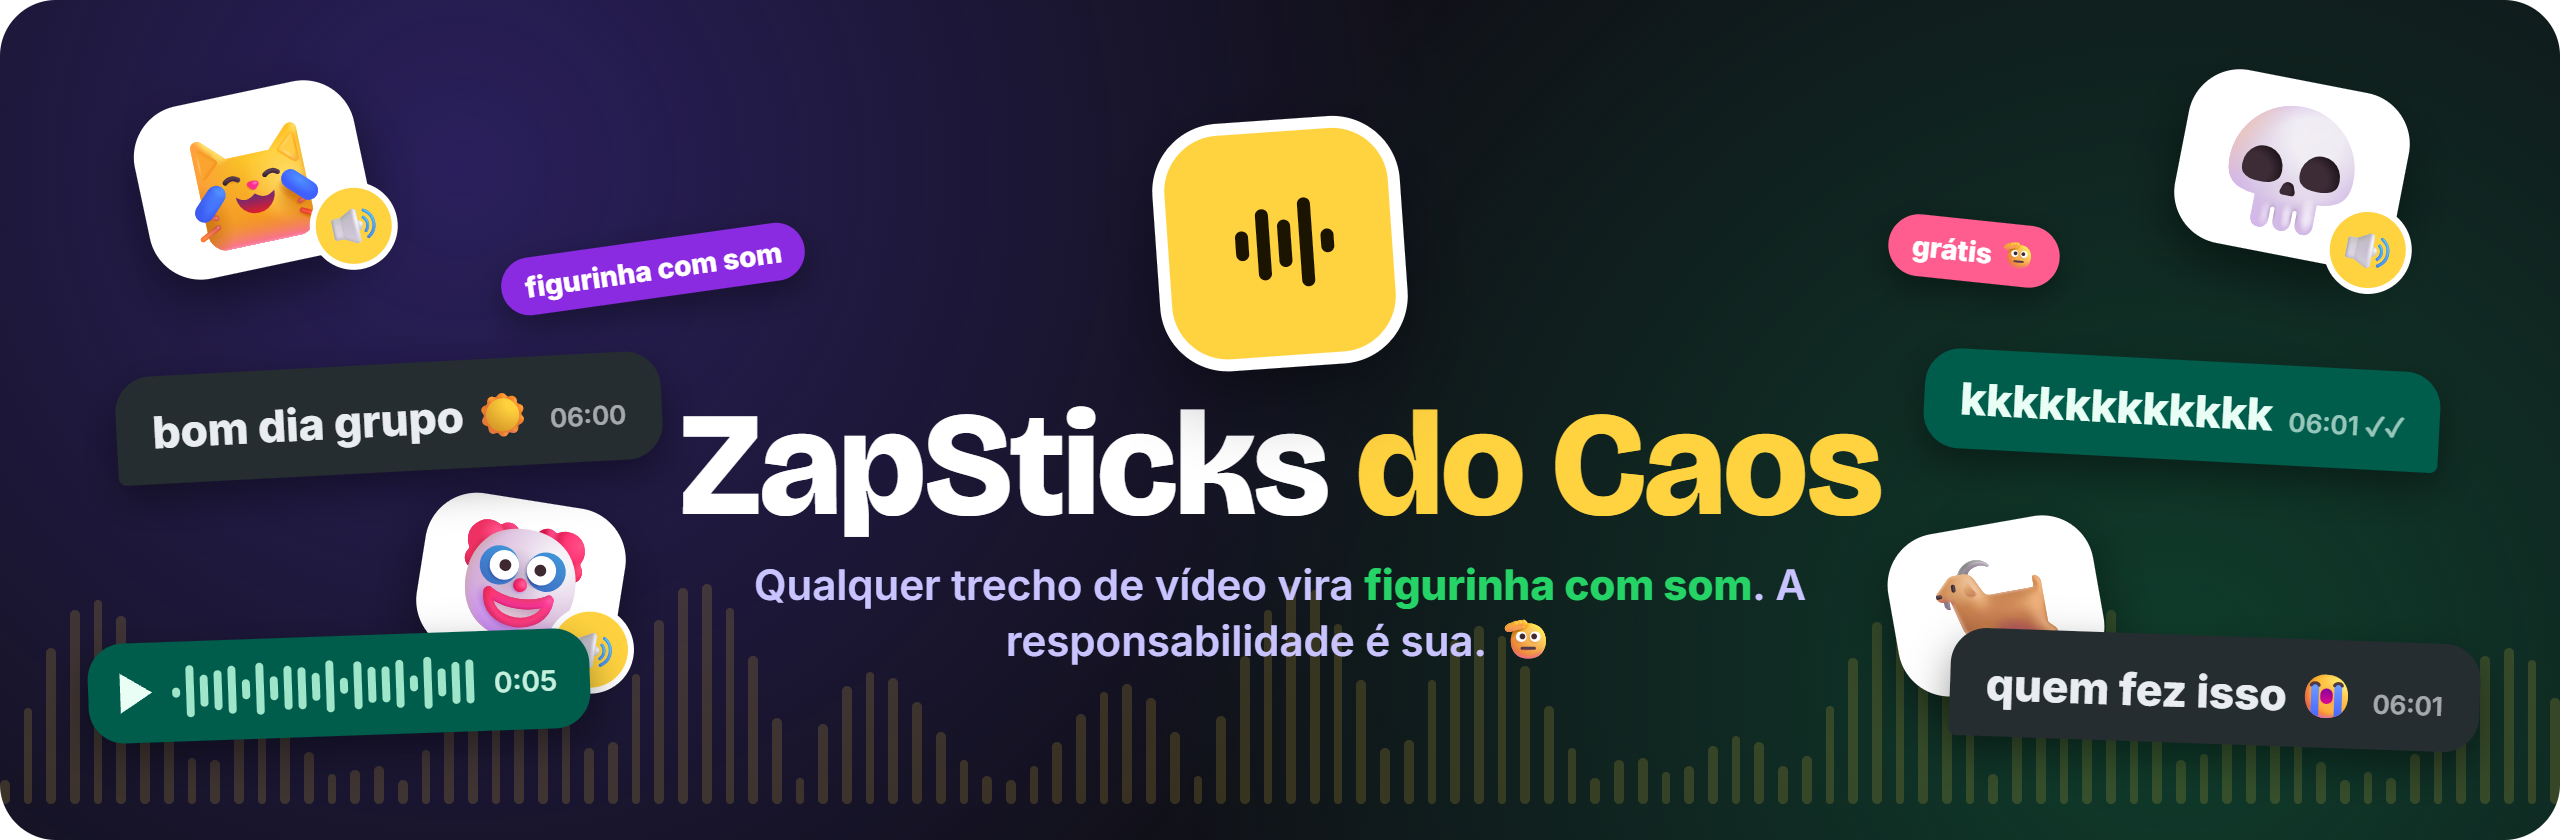
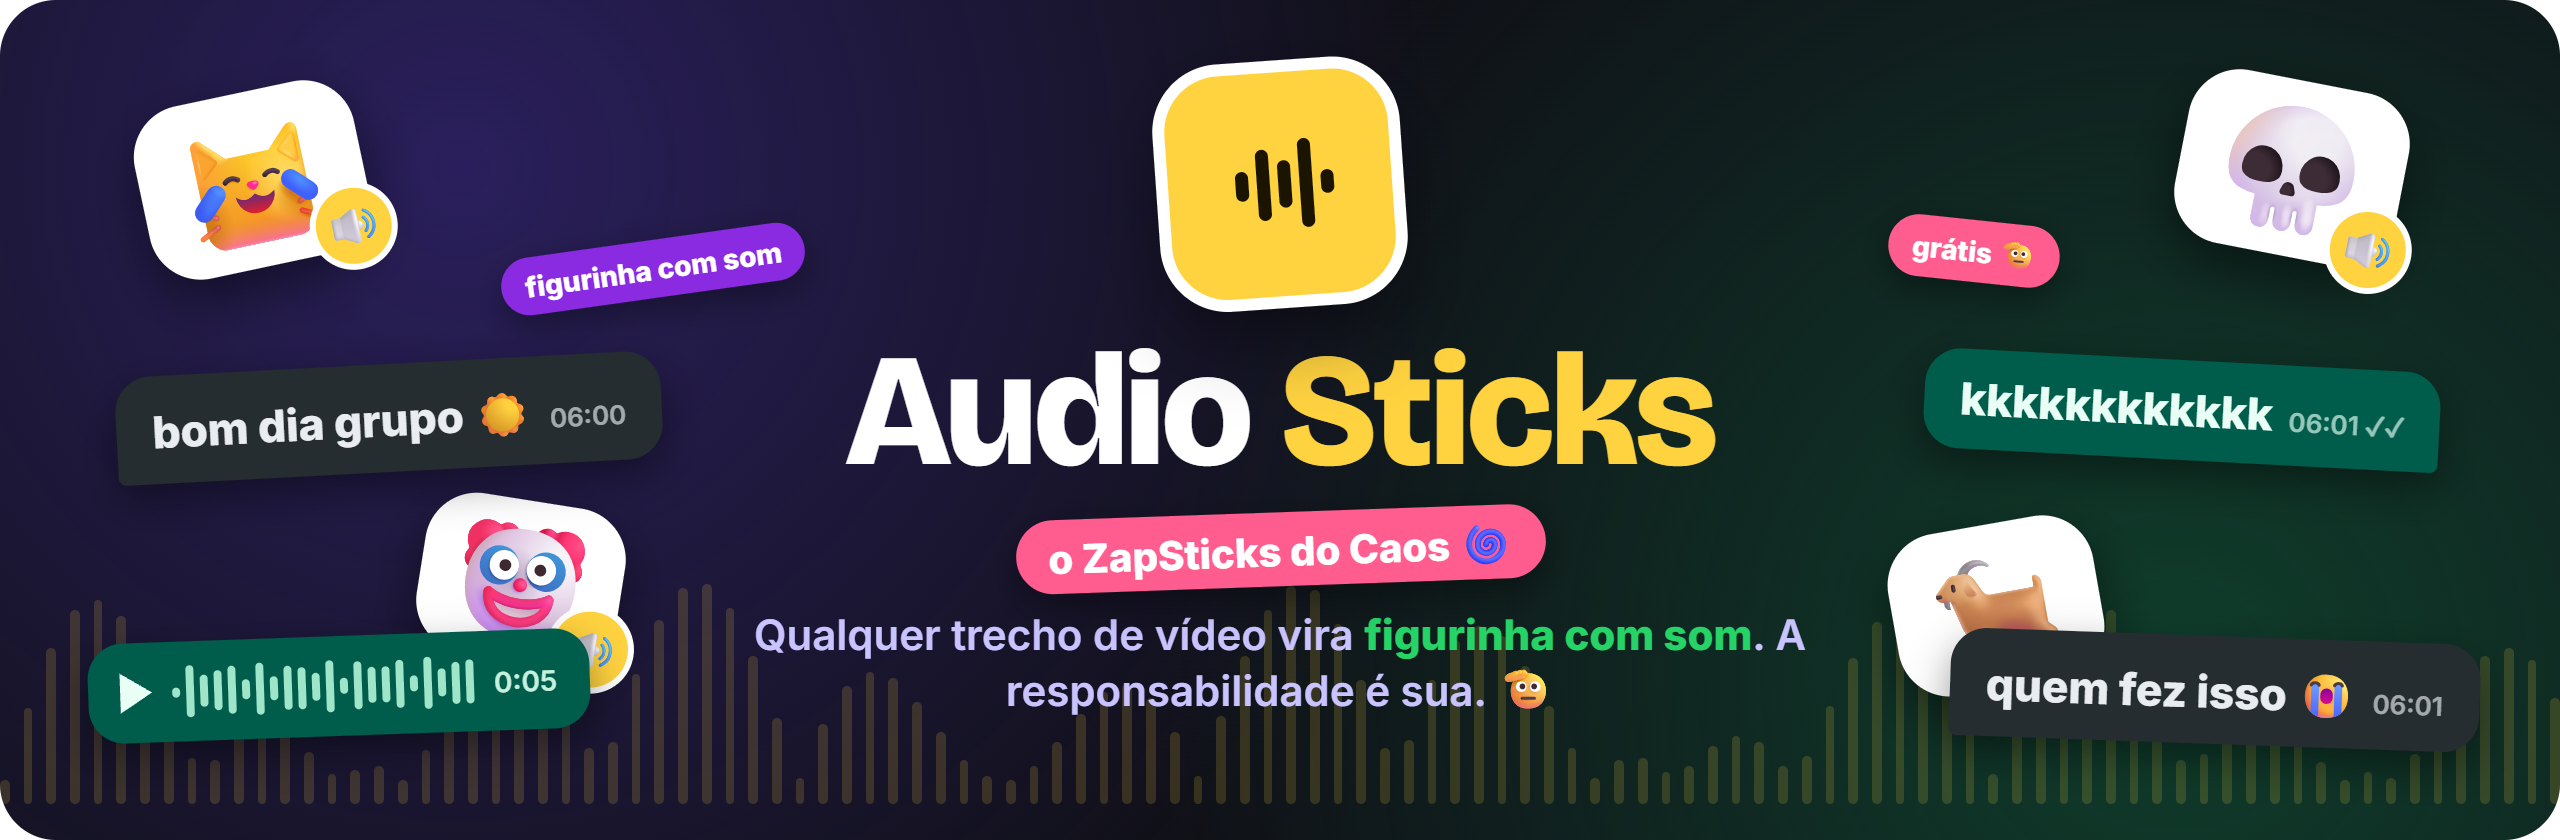
🏷 Repositório renomeado para audio-sticks · ZapSticks do Caos vira apelido
- Referências ao repositório (README, LEIAME, package.json, app, site, API de
  releases do botão de download) apontam para ivandneto/audio-sticks.
  O endereço antigo redireciona.
- Banner: "Audio Sticks" em destaque e "o ZapSticks do Caos 🌀" como apelido.

Changed region(s): [[0.25, 0.0619, 0.75, 0.8667]]

diff --git a/public/app.js b/public/app.js
@@ -23,7 +23,7 @@ let comboReturn = null;    // 'visual' | 'audio' quando uma peça está sendo cr
 // Combinação Caótica: as duas peças escolhidas e quais foram criadas só para ela (podem ser apagadas depois)
 const combo = { visual: null, audio: null, temp: new Set() };
 const comboPackSel = new Set();
-const REPO_URL = 'https://github.com/ivandneto/zapsticks-do-caos';
+const REPO_URL = 'https://github.com/ivandneto/audio-sticks';
 const STICKER_MAX = 10; // a figurinha com som do WhatsApp aceita até 10s de áudio
 
 function fmt(t, decimals = 1) {
@@ -91,12 +91,12 @@ if (document.querySelector('meta[name="motor"][content="navegador"]')) {
     aviso.className = `web-banner${geraWebp ? '' : ' ruim'}`;
     aviso.innerHTML = geraWebp
       ? '🌐 <span><b>Versão web:</b> suas figurinhas ficam guardadas <b>neste navegador</b>. Para não perder (trocar de aparelho, limpar o navegador), use <b>Exportar</b> na Biblioteca de vez em quando.</span><button type="button" class="wb-x" aria-label="Fechar aviso">×</button>'
-      : '⚠ <span><b>Este navegador não consegue gerar figurinhas</b> (falta o formato WebP). Use o <b>Chrome</b>, o <b>Edge</b> ou o <b>Firefox</b> atualizados, no computador ou no Android, ou o <a href="https://github.com/ivandneto/zapsticks-do-caos/releases/latest" target="_blank" rel="noopener">app para Windows</a>.</span>';
+      : '⚠ <span><b>Este navegador não consegue gerar figurinhas</b> (falta o formato WebP). Use o <b>Chrome</b>, o <b>Edge</b> ou o <b>Firefox</b> atualizados, no computador ou no Android, ou o <a href="https://github.com/ivandneto/audio-sticks/releases/latest" target="_blank" rel="noopener">app para Windows</a>.</span>';
     aviso.querySelector('.wb-x')?.addEventListener('click', () => { aviso.remove(); try { localStorage.setItem('sticks.webAviso', '1'); } catch { /* ok */ } });
     document.querySelector('main')?.prepend(aviso);
   }
   // ⬇ Baixar o app para Windows: o link da última versão vem do GitHub (sem isso, leva à página de downloads)
-  const RELEASES = 'https://github.com/ivandneto/zapsticks-do-caos/releases/latest';
+  const RELEASES = 'https://github.com/ivandneto/audio-sticks/releases/latest';
   const baixar = document.createElement('a');
   baixar.className = 'top-btn download-btn';
   baixar.href = RELEASES;
@@ -130,12 +130,12 @@ if (document.querySelector('meta[name="motor"][content="navegador"]')) {
       <ol class="ap-steps"><li>Extraia o <b>.zip</b></li><li>Dois cliques em <b>Audio Sticks.exe</b></li><li>Leia o <b>QR code</b> com o WhatsApp</li></ol>
     </div>
     <button type="button" class="ap-cafe" data-cafe>☕ O app e o site são grátis. Curtiu? <b>Me paga um café</b> (Pix de qualquer valor)</button>
-    <p class="ap-note">O Windows pode avisar que o app não é conhecido: clique em <b>Mais informações → Executar assim mesmo</b>. É só porque ele não tem assinatura digital paga. O código é aberto, no <a href="https://github.com/ivandneto/zapsticks-do-caos" target="_blank" rel="noopener">GitHub</a>.</p>`;
+    <p class="ap-note">O Windows pode avisar que o app não é conhecido: clique em <b>Mais informações → Executar assim mesmo</b>. É só porque ele não tem assinatura digital paga. O código é aberto, no <a href="https://github.com/ivandneto/audio-sticks" target="_blank" rel="noopener">GitHub</a>.</p>`;
   $('#welcome')?.append(promo);
   $('[data-cafe]', promo).onclick = () => openCafe();
 
   const promoBtn = $('.ap-btn', promo);
-  fetch('https://api.github.com/repos/ivandneto/zapsticks-do-caos/releases/latest', { headers: { Accept: 'application/vnd.github+json' } })
+  fetch('https://api.github.com/repos/ivandneto/audio-sticks/releases/latest', { headers: { Accept: 'application/vnd.github+json' } })
     .then((r) => (r.ok ? r.json() : null))
     .then((rel) => {
       const zip = rel?.assets?.find((a) => /win32.*\.zip$/i.test(a.name));
@@ -364,7 +364,7 @@ const siteIcon = (site) => SITE_ICON[site] || '🔗';
 function linkNoSite() {
   const h = $('#urlHint');
   h.classList.add('err');
-  h.innerHTML = `🔗 No site, só link do <b>YouTube</b> (ele é gravado enquanto toca). Instagram, TikTok e outros: <b>baixe o vídeo e envie o arquivo</b>, ou use o <a href="https://github.com/ivandneto/zapsticks-do-caos/releases/latest" target="_blank" rel="noopener">app para Windows</a>, que baixa sozinho.`;
+  h.innerHTML = `🔗 No site, só link do <b>YouTube</b> (ele é gravado enquanto toca). Instagram, TikTok e outros: <b>baixe o vídeo e envie o arquivo</b>, ou use o <a href="https://github.com/ivandneto/audio-sticks/releases/latest" target="_blank" rel="noopener">app para Windows</a>, que baixa sozinho.`;
   toast('Esse link não funciona no site: envie o arquivo do vídeo (do YouTube dá para colar o link).', 'err');
 }
 
@@ -1546,7 +1546,7 @@ async function shareStickerWeb(s, { criada = false } = {}) {
       <p><b>No celular:</b> use <b>Compartilhar</b> e escolha o WhatsApp e a conversa.</p>
       <p><b>No WhatsApp Web (PC):</b> baixe o <b>.webp</b> e arraste para a conversa: ele vira figurinha.</p>
       ${s.hasAudio && s.visual ? '<p><b>Figurinha com som:</b> baixe o <b>.mp4</b>, abra o WhatsApp no celular → 😊 → <b>Figurinhas → Criar</b>, escolha o vídeo e deixe o som ligado (se o seu WhatsApp já tiver o recurso).</p>' : ''}
-      <p>Quer mandar direto, sem baixar? O <a href="https://github.com/ivandneto/zapsticks-do-caos/releases/latest" target="_blank" rel="noopener">app para Windows</a> faz isso.</p>
+      <p>Quer mandar direto, sem baixar? O <a href="https://github.com/ivandneto/audio-sticks/releases/latest" target="_blank" rel="noopener">app para Windows</a> faz isso.</p>
     </details>`, (b) => {
     b.addEventListener('click', async (e) => {
       if (e.target.closest('[data-ouvir]')) { e.preventDefault(); return playSticker(s.id); }
@@ -1929,7 +1929,7 @@ const CREATE_TEXT = {
 // no site: só arquivo (o campo de link some; ver html.web no CSS)
 if (!CAPS.linkDownload) Object.assign(CREATE_TEXT, {
   step1: 'Escolha um arquivo ou cole um link do YouTube',
-  hint: '<b>Arquivo:</b> clique em 📁, <b>arraste</b> para cá ou <b>cole</b> (Ctrl+V). <b>YouTube:</b> cole o link; na hora de criar, o site toca o trecho e <b>grava</b> (no computador). Instagram, TikTok e outros: baixe o vídeo antes, ou use o <a href="https://github.com/ivandneto/zapsticks-do-caos/releases/latest" target="_blank" rel="noopener">app para Windows</a>, que baixa sozinho.',
+  hint: '<b>Arquivo:</b> clique em 📁, <b>arraste</b> para cá ou <b>cole</b> (Ctrl+V). <b>YouTube:</b> cole o link; na hora de criar, o site toca o trecho e <b>grava</b> (no computador). Instagram, TikTok e outros: baixe o vídeo antes, ou use o <a href="https://github.com/ivandneto/audio-sticks/releases/latest" target="_blank" rel="noopener">app para Windows</a>, que baixa sozinho.',
   welcome: ['<b>Escolha</b> um vídeo, foto ou GIF, ou cole um link do <b>YouTube</b>', '<b>Marque</b> o trecho e escolha o <b>som</b>: do vídeo, nenhum, um áudio seu ou a sua voz', '<b>Baixe</b> ou <b>compartilhe</b> a figurinha, com ou sem som'],
 });
 const MODE_TEXT = { audio: CREATE_TEXT, sticker: CREATE_TEXT };
@@ -2727,8 +2727,8 @@ async function openHelp(tab = 'inicio') {
       <span class="logo" aria-hidden="true"><i></i><i></i><i></i><i></i></span>
       <h3>Como o Audio Sticks funciona</h3>
       <p>${MOTOR.kind === 'navegador' ? 'Transforme um trecho de vídeo (um arquivo seu ou do YouTube) em figurinha, com ou sem som, direto no navegador.' : 'Transforme qualquer trecho de vídeo — YouTube, Instagram, TikTok ou um arquivo seu — em figurinha de áudio e mande para o WhatsApp em um clique.'}</p>
-      ${MOTOR.kind === 'navegador' ? `<p class="mode-hint help-web">🌐 Você está na <b>versão web</b>: cria, guarda (neste navegador) e baixa ou compartilha a figurinha. Só o envio direto pelo WhatsApp e os links do Instagram/TikTok são do <a href="https://github.com/ivandneto/zapsticks-do-caos/releases/latest" target="_blank" rel="noopener">app para Windows</a> (grátis).</p>` : ''}
-      <div class="hero-actions"><button class="btn primary" id="hTour">🧭 Fazer o tour guiado</button>${CAPS.settings ? '<button class="btn" id="hSet">⚙ Configurações</button>' : '<a class="btn" href="https://github.com/ivandneto/zapsticks-do-caos/releases/latest" target="_blank" rel="noopener">⬇ Baixar o app</a>'}</div>
+      ${MOTOR.kind === 'navegador' ? `<p class="mode-hint help-web">🌐 Você está na <b>versão web</b>: cria, guarda (neste navegador) e baixa ou compartilha a figurinha. Só o envio direto pelo WhatsApp e os links do Instagram/TikTok são do <a href="https://github.com/ivandneto/audio-sticks/releases/latest" target="_blank" rel="noopener">app para Windows</a> (grátis).</p>` : ''}
+      <div class="hero-actions"><button class="btn primary" id="hTour">🧭 Fazer o tour guiado</button>${CAPS.settings ? '<button class="btn" id="hSet">⚙ Configurações</button>' : '<a class="btn" href="https://github.com/ivandneto/audio-sticks/releases/latest" target="_blank" rel="noopener">⬇ Baixar o app</a>'}</div>
     </div>
     <nav class="help-tabs" id="hTabs">${Object.entries(HELP_TABS).map(([k, t]) => `<button data-k="${k}">${t.label}</button>`).join('')}</nav>
     <div class="help-body" id="hBody"></div>`, (b) => {

diff --git a/public/index.html b/public/index.html
@@ -30,7 +30,7 @@
         <svg viewBox="0 0 24 24" aria-hidden="true"><circle cx="12" cy="12" r="9"/><path d="m15.5 8.5-2 5-5 2 2-5z"/></svg><span>Tour</span>
       </button>
       <button id="helpBtn" class="top-btn icon" type="button" title="Como funciona" aria-label="Como funciona">?</button>
-      <a id="githubBtn" class="top-btn icon gh" href="https://github.com/ivandneto/zapsticks-do-caos" target="_blank" rel="noopener" title="Projeto no GitHub (código, novidades e downloads)" aria-label="Projeto no GitHub">
+      <a id="githubBtn" class="top-btn icon gh" href="https://github.com/ivandneto/audio-sticks" target="_blank" rel="noopener" title="Projeto no GitHub (código, novidades e downloads)" aria-label="Projeto no GitHub">
         <svg viewBox="0 0 24 24" aria-hidden="true"><path d="M12 .5a11.5 11.5 0 0 0-3.64 22.41c.58.1.79-.25.79-.56v-2c-3.2.7-3.88-1.37-3.88-1.37-.52-1.33-1.28-1.69-1.28-1.69-1.05-.72.08-.7.08-.7 1.16.08 1.77 1.19 1.77 1.19 1.03 1.77 2.71 1.26 3.37.96.1-.75.4-1.26.73-1.55-2.55-.29-5.24-1.28-5.24-5.69 0-1.26.45-2.29 1.19-3.09-.12-.29-.52-1.46.11-3.05 0 0 .97-.31 3.17 1.18a11 11 0 0 1 5.77 0c2.2-1.49 3.17-1.18 3.17-1.18.63 1.59.23 2.76.11 3.05.74.8 1.19 1.83 1.19 3.09 0 4.42-2.7 5.39-5.26 5.68.41.36.78 1.06.78 2.14v3.17c0 .31.21.67.8.56A11.5 11.5 0 0 0 12 .5Z"/></svg>
       </a>
       <button id="settingsBtn" class="top-btn icon" type="button" title="Configurações" aria-label="Configurações">

diff --git a/server.js b/server.js
@@ -22,7 +22,7 @@ import apoio from './web/apoio.json' with { type: 'json' };
 
 const PASSWORD = process.env.APP_PASSWORD || '';
 const MAX_SECONDS = 60;
-const REPO_URL = 'https://github.com/ivandneto/zapsticks-do-caos';
+const REPO_URL = 'https://github.com/ivandneto/audio-sticks';
 
 const app = express();
 app.disable('x-powered-by');

diff --git a/README.md b/README.md
@@ -1,8 +1,8 @@
 <div align="center">
 
-<img src="docs/banner.png" width="100%" alt="ZapSticks do Caos: logo do Audio Sticks no meio de figurinhas com som, balões de conversa com bom dia grupo e kkkkkk, e o slogan: qualquer trecho de vídeo vira figurinha com som">
+<img src="docs/banner.png" width="100%" alt="Audio Sticks, o ZapSticks do Caos: logo no meio de figurinhas com som, balões de conversa com bom dia grupo e kkkkkk, e o slogan: qualquer trecho de vídeo vira figurinha com som">
 
-### *Audio Sticks: porque mandar "kkkkkk" já não basta.*
+### *O ZapSticks do Caos: porque mandar "kkkkkk" já não basta.*
 
 Transforma **qualquer trecho de vídeo** (YouTube, Instagram, TikTok, X, Facebook ou um arquivo seu) em **figurinha de áudio** e manda direto no **WhatsApp**.
 Para você, para um contato, para o grupo da família às 6h da manhã. A responsabilidade é sua. 🫡
@@ -14,17 +14,17 @@ Para você, para um contato, para o grupo da família às 6h da manhã. A respon
 ![Feito com](https://img.shields.io/badge/feito%20com-ffmpeg%20%2B%20caos-8a2be2)
 ![Funciona na minha máquina](https://img.shields.io/badge/funciona-na%20minha%20m%C3%A1quina%E2%84%A2-orange)
 
-[![Estrelas](https://img.shields.io/github/stars/ivandneto/zapsticks-do-caos?style=flat&logo=github&label=%E2%AD%90%20estrelas&color=ffd23f)](https://github.com/ivandneto/zapsticks-do-caos/stargazers)
-[![Downloads](https://img.shields.io/github/downloads/ivandneto/zapsticks-do-caos/total?label=%E2%AC%87%20downloads&color=25d366)](https://github.com/ivandneto/zapsticks-do-caos/releases)
-[![Versão](https://img.shields.io/github/v/release/ivandneto/zapsticks-do-caos?label=vers%C3%A3o&color=8a2be2)](https://github.com/ivandneto/zapsticks-do-caos/releases/latest)
+[![Estrelas](https://img.shields.io/github/stars/ivandneto/audio-sticks?style=flat&logo=github&label=%E2%AD%90%20estrelas&color=ffd23f)](https://github.com/ivandneto/audio-sticks/stargazers)
+[![Downloads](https://img.shields.io/github/downloads/ivandneto/audio-sticks/total?label=%E2%AC%87%20downloads&color=25d366)](https://github.com/ivandneto/audio-sticks/releases)
+[![Versão](https://img.shields.io/github/v/release/ivandneto/audio-sticks?label=vers%C3%A3o&color=8a2be2)](https://github.com/ivandneto/audio-sticks/releases/latest)
 [![Site](https://img.shields.io/website?url=https%3A%2F%2Fzapsticks.pages.dev&label=%F0%9F%8C%90%20site&up_message=no%20ar&down_message=fora%20do%20ar)](https://zapsticks.pages.dev/)
-[![Atualizado](https://img.shields.io/github/last-commit/ivandneto/zapsticks-do-caos?label=atualizado)](https://github.com/ivandneto/zapsticks-do-caos/commits/main)
+[![Atualizado](https://img.shields.io/github/last-commit/ivandneto/audio-sticks?label=atualizado)](https://github.com/ivandneto/audio-sticks/commits/main)
 
 <br>
 
-[![🌐 Usar no navegador](https://img.shields.io/badge/%F0%9F%8C%90%20Usar%20no%20navegador-zapsticks.pages.dev-ffd23f?style=for-the-badge)](https://zapsticks.pages.dev/) [![⬇ Baixar para Windows](https://img.shields.io/badge/%E2%AC%87%20Baixar%20para%20Windows-v1.6.0%20%C2%B7%2042%20MB-25d366?style=for-the-badge&logo=windows&logoColor=white)](https://github.com/ivandneto/zapsticks-do-caos/releases/latest)
+[![🌐 Usar no navegador](https://img.shields.io/badge/%F0%9F%8C%90%20Usar%20no%20navegador-zapsticks.pages.dev-ffd23f?style=for-the-badge)](https://zapsticks.pages.dev/) [![⬇ Baixar para Windows](https://img.shields.io/badge/%E2%AC%87%20Baixar%20para%20Windows-v1.6.0%20%C2%B7%2042%20MB-25d366?style=for-the-badge&logo=windows&logoColor=white)](https://github.com/ivandneto/audio-sticks/releases/latest)
 
-<sub><b>No navegador</b> (computador ou celular), sem instalar: <a href="https://zapsticks.pages.dev/">zapsticks.pages.dev</a>. <b>No Windows</b>, com envio direto pelo WhatsApp: baixa, extrai, dá dois cliques. O <a href="https://github.com/ivandneto/zapsticks-do-caos/releases/latest">passo a passo para leigos</a> está na página de download.</sub>
+<sub><b>No navegador</b> (computador ou celular), sem instalar: <a href="https://zapsticks.pages.dev/">zapsticks.pages.dev</a>. <b>No Windows</b>, com envio direto pelo WhatsApp: baixa, extrai, dá dois cliques. O <a href="https://github.com/ivandneto/audio-sticks/releases/latest">passo a passo para leigos</a> está na página de download.</sub>
 
 <sub>Curtiu? Deixa uma ⭐ <b>estrela</b> aqui no GitHub (canto de cima, à direita): ajuda mais gente a achar o projeto.</sub>
 
@@ -126,7 +126,7 @@ Funciona no **Chrome**, no **Edge** e no **Firefox** atualizados. O Safari do iP
 
 ### Jeito preguiçoso (Windows)
 
-1. Baixe o `.zip` em **[Releases](https://github.com/ivandneto/zapsticks-do-caos/releases/latest)**. Tem um lá agora, juro. Até guia para leigos tem. 👀 (Ou gere você mesmo com `npm run build:exe`, se gosta de sofrer.)
+1. Baixe o `.zip` em **[Releases](https://github.com/ivandneto/audio-sticks/releases/latest)**. Tem um lá agora, juro. Até guia para leigos tem. 👀 (Ou gere você mesmo com `npm run build:exe`, se gosta de sofrer.)
 2. Descompacte e dê dois cliques no **`Audio Sticks.exe`**.
 3. Se o Windows reclamar ("O Windows protegeu o computador"): **Mais informações → Executar assim mesmo**. Ele só está com ciúmes porque o app não tem assinatura digital paga.
 
@@ -137,8 +137,8 @@ Funciona no **Chrome**, no **Edge** e no **Firefox** atualizados. O Safari do iP
 ### Jeito dev
 
 ```bash
-git clone https://github.com/ivandneto/zapsticks-do-caos.git
-cd zapsticks-do-caos
+git clone https://github.com/ivandneto/audio-sticks.git
+cd audio-sticks
 npm install
 npm start          # http://localhost:3000
 ```

diff --git a/LEIAME.md b/LEIAME.md
@@ -82,7 +82,7 @@ Abra **http://localhost:3000**. Para gerar o executável: `npm run build:exe` (d
 | **Enviar para** (topo) | Para quem vão todos os envios: você, um contato, um grupo ou um número. Vale em **qualquer aba**; clique para abrir o painel do lado direito ([seção 5](#5-enviar-para-quem-e-como)). |
 | **🧭 Tour** | Apresentação guiada que destaca cada parte da tela (e abre a Biblioteca sozinho quando chega nela). Abre sozinho na primeira visita. |
 | **?** | Guia ilustrado: começando, recursos, atalhos e dúvidas. |
-| **GitHub** (ícone do gatinho) | Abre o [repositório do projeto](https://github.com/ivandneto/zapsticks-do-caos): código, novidades e versões para baixar. |
+| **GitHub** (ícone do gatinho) | Abre o [repositório do projeto](https://github.com/ivandneto/audio-sticks): código, novidades e versões para baixar. |
 | **⚙** | Configurações: porta, endereço para o celular, pasta dos dados, backup. |
 | **☕** | *Me paga um café*: o app é grátis; aqui tem um **Pix** de qualquer valor (QR code ou copia e cola). Também no rodapé da **Ajuda**. |
 | **Abas** | **🎬 Criar** (figurinha com ou sem som, ou áudio), **🌀 Combinação Caótica** (a imagem de uma + o som de outra) e **📚 Biblioteca** (todas as suas figurinhas, com o número delas). |
